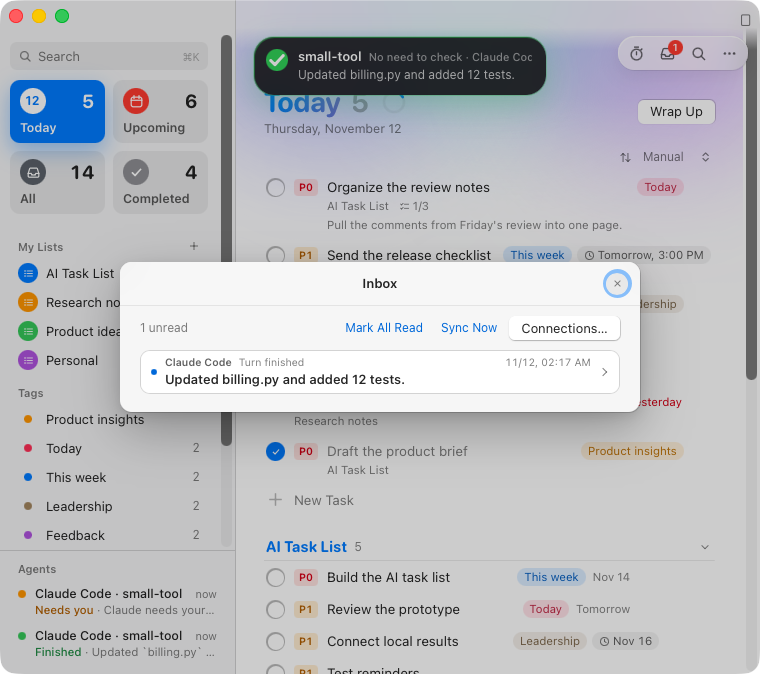
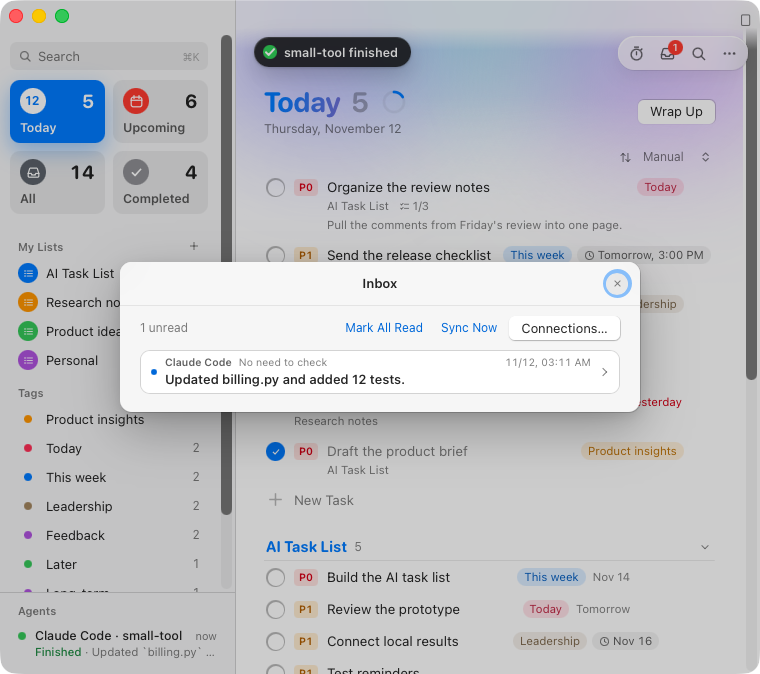
Refresh previews from the macOS build, including the fact-based report
Claude-Session: https://claude.ai/code/session_01UqGsHtGVF2hun6C6dWUoq8

diff --git a/README.md b/README.md
@@ -6,7 +6,7 @@ Shishi is a task list for people who work alongside AI. A small card sits in a c
 
 ![Shishi workspace with smart lists, the Today list and two Claude Code sessions in the Agents list](Previews/workspace.png)
 
-[Corner card](Previews/today.png) · [Card on the desktop](Previews/desktop.png) · [Brief report in motion (video)](Previews/agent-report.mp4) · [First run and demo (video)](Previews/first-run-demo.mp4) · [Dark appearance](Previews/workspace-dark.png) · [Inbox](Previews/inbox.png)
+[Corner card](Previews/today.png) · [Brief report](Previews/report.png) · [Card on the desktop](Previews/desktop.png) · [Brief report in motion (video)](Previews/agent-report.mp4) · [First run and demo (video)](Previews/first-run-demo.mp4) · [Dark appearance](Previews/workspace-dark.png) · [Inbox](Previews/inbox.png)
 
 ## Run on a Mac
 
